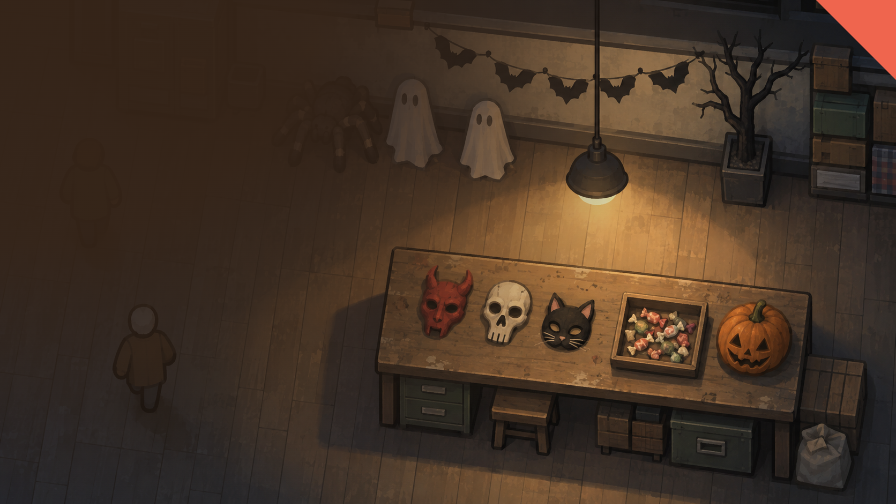
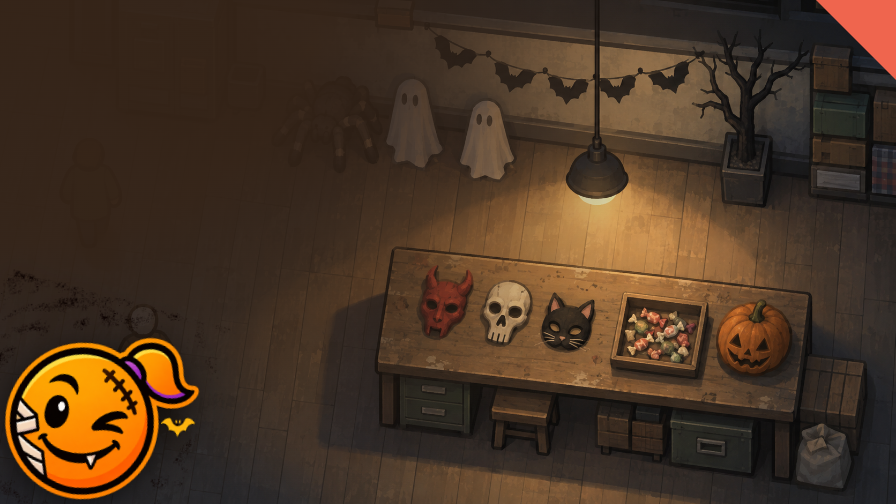
Preview.png: composite the cutout ModIcon, bottom-left +15deg
PUBLISHING.md, 2026-09-29 (owner's rule): every Preview now carries the
ModIcon, detoured, in one bottom corner. scripts/Cutout-Icon.cjs
flood-fills Art/ModIcon-source.png from the border (near-black
background, <12/<12/<12), same method as
ManyHappyReturns/_tools/cutout-icon.cjs; the mascot's own outline never
touches the frame so it stays intact. Writes Art/ModIcon-cutout.png,
committed. Bottom-left chosen: both bottom corners of the scene read
equally dark, so no composition reason to prefer right.

Preview-text.html composites it at 240x240, rotate(15deg); the renderer
now waits for it to decode and serves it to the sandboxed page.
Re-run: node scripts/Render-Preview.cjs (needs NODE_PATH pointing at
sharp/playwright, e.g. the npm global modules).

Contrast checks still pass (title 5.835:1, badge 5.881:1), size
542,483 bytes.

Changed region(s): [[0.0, 0.6548, 0.2188, 1.0]]

diff --git a/Art/Preview-text.html b/Art/Preview-text.html
@@ -6,7 +6,13 @@
      The original illustration is preserved in Preview-source.png.
      Brown veil and warm gold secondary ink follow the wood and lamplight;
      the vivid coral accent follows the red devil mask, separate from the gold.
-     The renderer waits for the palette, image and Segoe UI font before capturing. -->
+     The renderer waits for the palette, image and Segoe UI font before capturing.
+     Since 2026-09-29 (PUBLISHING.md, owner's rule) the ModIcon is composited onto the Preview,
+     cut out from its near-black background: scripts/Cutout-Icon.cjs flood-fills Art/ModIcon-source.png
+     from the border inward (same method as ManyHappyReturns/_tools/cutout-icon.cjs), writing
+     Art/ModIcon-cutout.png, committed. Bottom-left corner, +15deg (both bottom corners read equally
+     dark here; left chosen to match the reference implementation). Re-run by hand only if the
+     source icon changes. -->
 <style>
   html, body { margin: 0; padding: 0; }
   .frame {
@@ -46,6 +52,10 @@
     transform: translate(-50%, -50%) rotate(45deg);
     font-size: 26px; line-height: 1; font-weight: 700; color: var(--badgeInk);
   }
+  .icon {
+    position: absolute; left: -30px; bottom: -30px; width: 240px; height: 240px;
+    transform: rotate(15deg); filter: drop-shadow(0 6px 16px rgb(0 0 0 / .6));
+  }
 </style>
 <div class="frame">
   <div class="shade"></div>
@@ -57,6 +67,7 @@
   </div>
   <div class="badge"></div>
   <div class="version">1.6</div>
+  <img class="icon" src="ModIcon-cutout.png" alt="">
 </div>
 <script>
   window.previewReady = (async () => {
@@ -71,7 +82,8 @@
     document.documentElement.style.setProperty('--veil-rgb', rgb);
     const background = new Image();
     background.src = 'Preview-source.png';
-    await background.decode();
+    const icon = document.querySelector('.icon');
+    await Promise.all([background.decode(), icon.decode()]);
     await document.fonts.ready;
     return palette;
   })();
